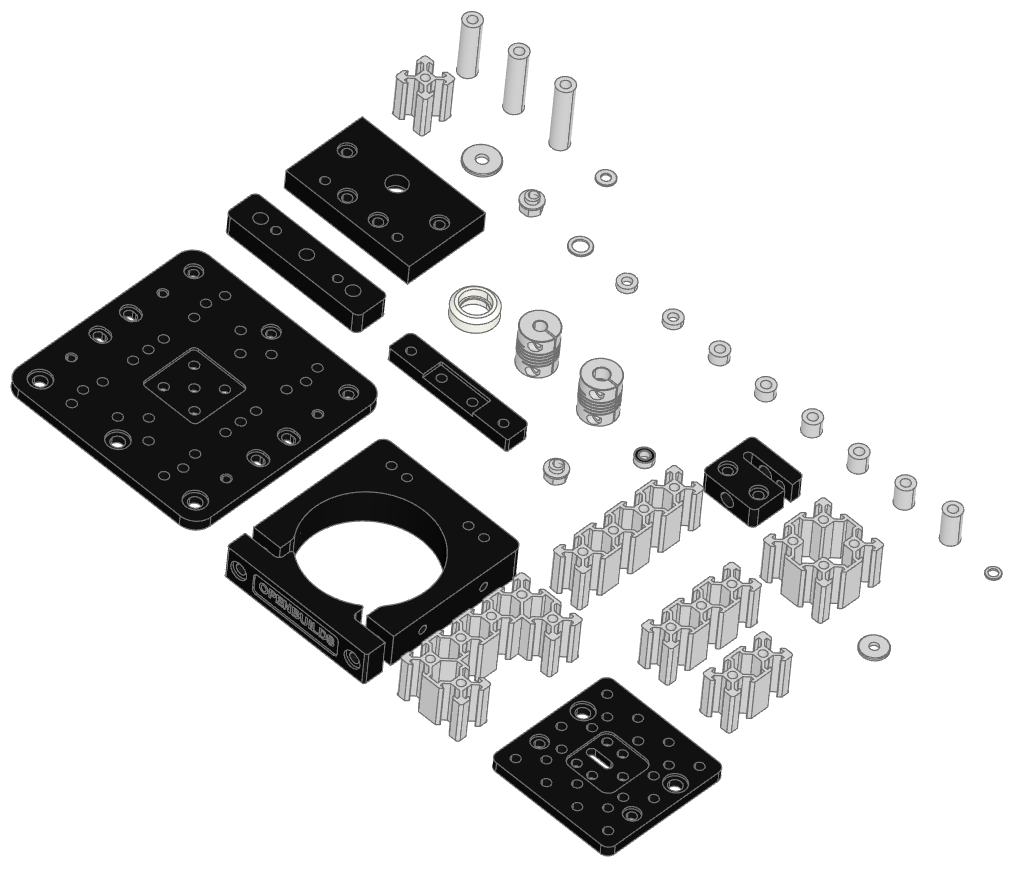
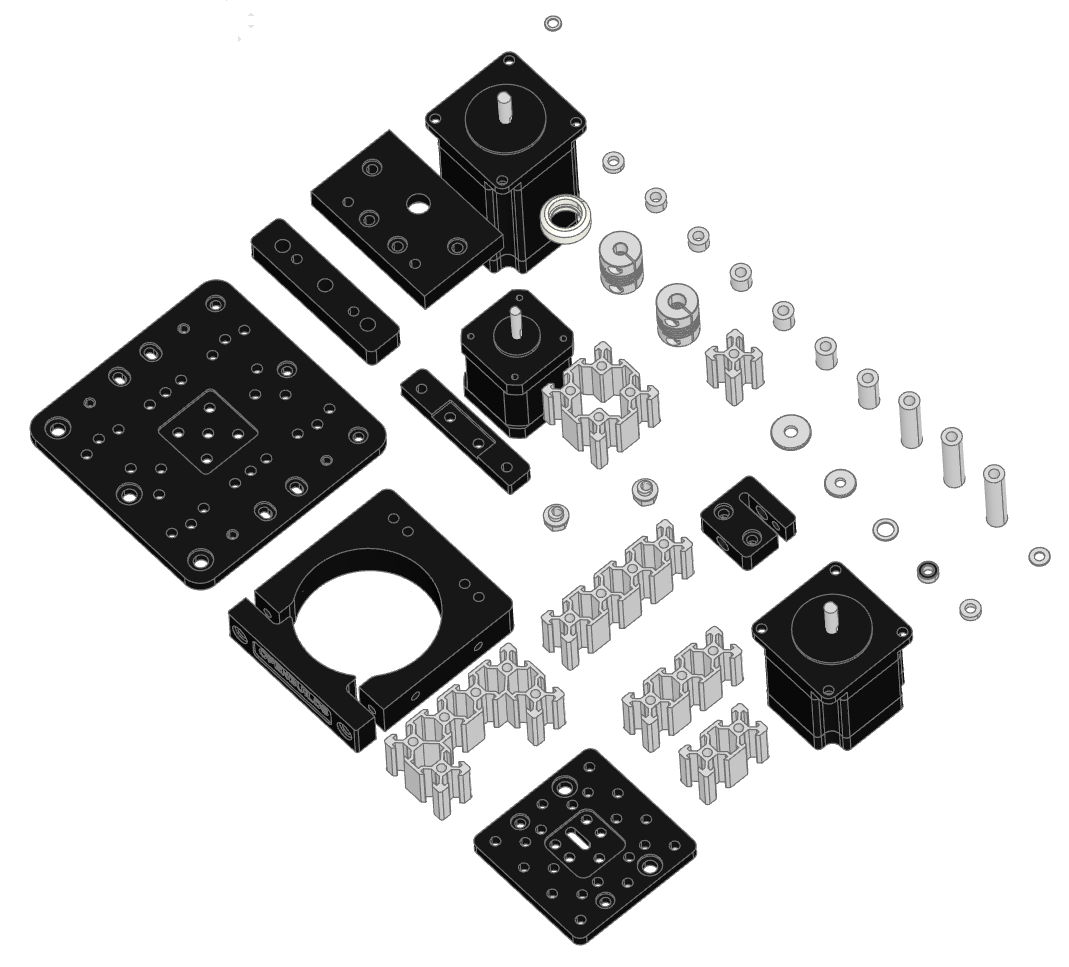
Added StepperMotor

Changed region(s): [[0.0, 0.0, 0.9783, 0.9942], [0.9477, 0.6525, 1.0, 0.6835]]

diff --git a/src/bd_warehouse/open_builds.py b/src/bd_warehouse/open_builds.py
@@ -1465,6 +1465,132 @@ class XtremeSolidVWheelAssembly(Compound):
         )
 
 
+class StepperMotor(Compound):
+    """Assembly: OpenBuilds StepperMotors
+
+    This custom Openbuilds NEMA Stepper Motor series offers a range of options, from the
+    NEMA 17 for lighter duty, high-precision CNC projects, to the NEMA 23 for larger builds
+    requiring more power, and the NEMA 23 High Torque for enhanced holding power and
+    strength to elevate any build.
+
+    Product Features:
+        - Plug and Play Xtension connector for easy and fast install
+        - Flat shaft section for better torque
+
+    Common Product Specifications:
+        - Step Angle: 1.8
+        - 4 Wire Bi-Polar
+        - RoHS Compliant
+
+    NEMA 17 Product Specifications:
+        - Shaft Size: 5mm
+        - Torque: 76 oz*in
+        - Peak Current is 1.68A/phase
+        - M3 Mounting Holes
+        - 12-24VDC (Recommended)
+
+    NEMA 23 Product Specifications
+        - Shaft Size: 1/4"
+        - Torque: 175 oz*in
+        - Peak Current is 2.8A/phase
+        - 12-48VDC (Recommended)
+
+    NEMA 23 High Torque Product Specifications:
+        - 2 Phase
+        - Shaft Size: 1/4"
+        - Torque: 345 oz*in
+        - 24-48VDC (Recommended)
+
+    Args:
+        motor_type (Literal["Nema17", "Nema23", "Nema23HighTorque"]): steppers
+
+    Raises:
+        ValueError: Invalid motor_type
+    """
+
+    def __init__(self, motor_type: Literal["Nema17", "Nema23", "Nema23HighTorque"]):
+        motor_data = {
+            "Nema17": (48, 5, 2, 9, 24),
+            "Nema23": (56, IN / 4, 2.675, 5.6, 20.6),
+            "Nema23HighTorque": (86, IN / 4, 2.675, 5.6, 20.6),
+        }
+        try:
+            len, shaft_d, flat, shaft_l1, shaft_l2 = motor_data[motor_type]
+        except KeyError:
+            raise ValueError(
+                f"{motor_type} is invalid, must be one of {motor_data.keys()}"
+            )
+
+        m3 = SocketHeadCapScrew("M3-0.5", 20)
+
+        with BuildPart() as stepper:
+            if motor_type in ["Nema23", "Nema23HighTorque"]:
+                with BuildSketch() as skt1:
+                    with BuildLine():
+                        l1 = Line((28.2, 0), (28.2, 16.07))
+                        l2 = JernArc(l1 @ 1, l1 % 1, 2.5, 90)
+                        l3 = Line(l2 @ 1, (23.57, 18.57))
+                        l4 = JernArc(l3 @ 1, l3 % 1, 5, -45)
+                        mirror(about=Plane(l4 ^ 1))
+                        mirror(about=Plane.YZ)
+                        mirror(about=Plane.XZ)
+                    make_face()
+                extrude(amount=-11)
+                add(Face(skt1.wire().offset_2d(-0.1)))
+                extrude(amount=-len + 11)
+                add(skt1.face().located(Pos(Z=-len + 11)))
+                extrude(amount=-11)
+                with BuildSketch() as skt2:
+                    RectangleRounded(28.2 * 2, 28.2 * 2, 4.6)
+                    with GridLocations(23.57 * 2, 23.57 * 2, 2, 2) as mount_holes:
+                        Circle(2.55, mode=Mode.SUBTRACT)
+                extrude(amount=-4.8)
+                with BuildSketch():
+                    Circle(19.05)
+                extrude(amount=1.6)
+            else:
+                with BuildSketch() as skt1:
+                    Rectangle(21.209 * 2, 21.209 * 2)
+                    Circle(26.5, mode=Mode.INTERSECT)
+                extrude(amount=-8.75)
+                with BuildSketch() as skt2:
+                    Rectangle(21.109 * 2, 21.109 * 2)
+                    Circle(25, mode=Mode.INTERSECT)
+                extrude(amount=-len)
+                add(skt1.face().located(Pos(Z=-len + 8.75)))
+                extrude(amount=-8.75)
+                with GridLocations(15.5 * 2, 15.5 * 2, 2, 2) as mount_holes:
+                    Hole(1.5, 6)
+                    ThreadedHole(m3, depth=7.5, counter_sunk=False)
+                with BuildSketch():
+                    Circle(11)
+                extrude(amount=2)
+
+        with BuildPart() as shaft:
+            with BuildSketch():
+                Circle(shaft_d / 2)
+            extrude(amount=shaft_l1)
+            with BuildSketch():
+                Circle(shaft_d / 2)
+                with Locations((0, flat)):
+                    Rectangle(
+                        shaft_d,
+                        shaft_d,
+                        align=(Align.CENTER, Align.MIN),
+                        mode=Mode.SUBTRACT,
+                    )
+            extrude(amount=shaft_l2)
+
+        stepper.part.color = Color(0x020202)
+        shaft.part.color = Color(0xC0C0C0)
+
+        super().__init__()
+        self.label = f"StepperMotor-{motor_type}"
+        self.children = [stepper.part, shaft.part]
+        for label, loc in zip(["a", "b", "c", "d"], mount_holes.locations):
+            RigidJoint(label, self, -loc)
+
+
 if __name__ == "__main__":
     from ocp_vscode import show, set_defaults, Camera
 
@@ -1516,6 +1642,9 @@ if __name__ == "__main__":
                 ShimWasher("FlatWasher"),
                 SingleRowCappedDeepGrooveBallBearing("M5-10-4", "OpenBuilds"),
                 SpacerBlock(),
+                StepperMotor("Nema17"),
+                StepperMotor("Nema23"),
+                StepperMotor("Nema23HighTorque"),
                 VSlotLinearRail("20x20", 25),
                 VSlotLinearRail("20x40", 25),
                 VSlotLinearRail("20x60", 25),

diff --git a/docs/openbuilds.rst b/docs/openbuilds.rst
@@ -49,6 +49,7 @@ Parts available in the OpenBuilds part store:
 .. autoclass:: ShimWasher
 .. autoclass:: SingleRowCappedDeepGrooveBallBearing
 .. autoclass:: SpacerBlock
+.. autoclass:: StepperMotor
 .. autoclass:: VSlotLinearRail
 .. autoclass:: XtremeSolidVWheel
 
